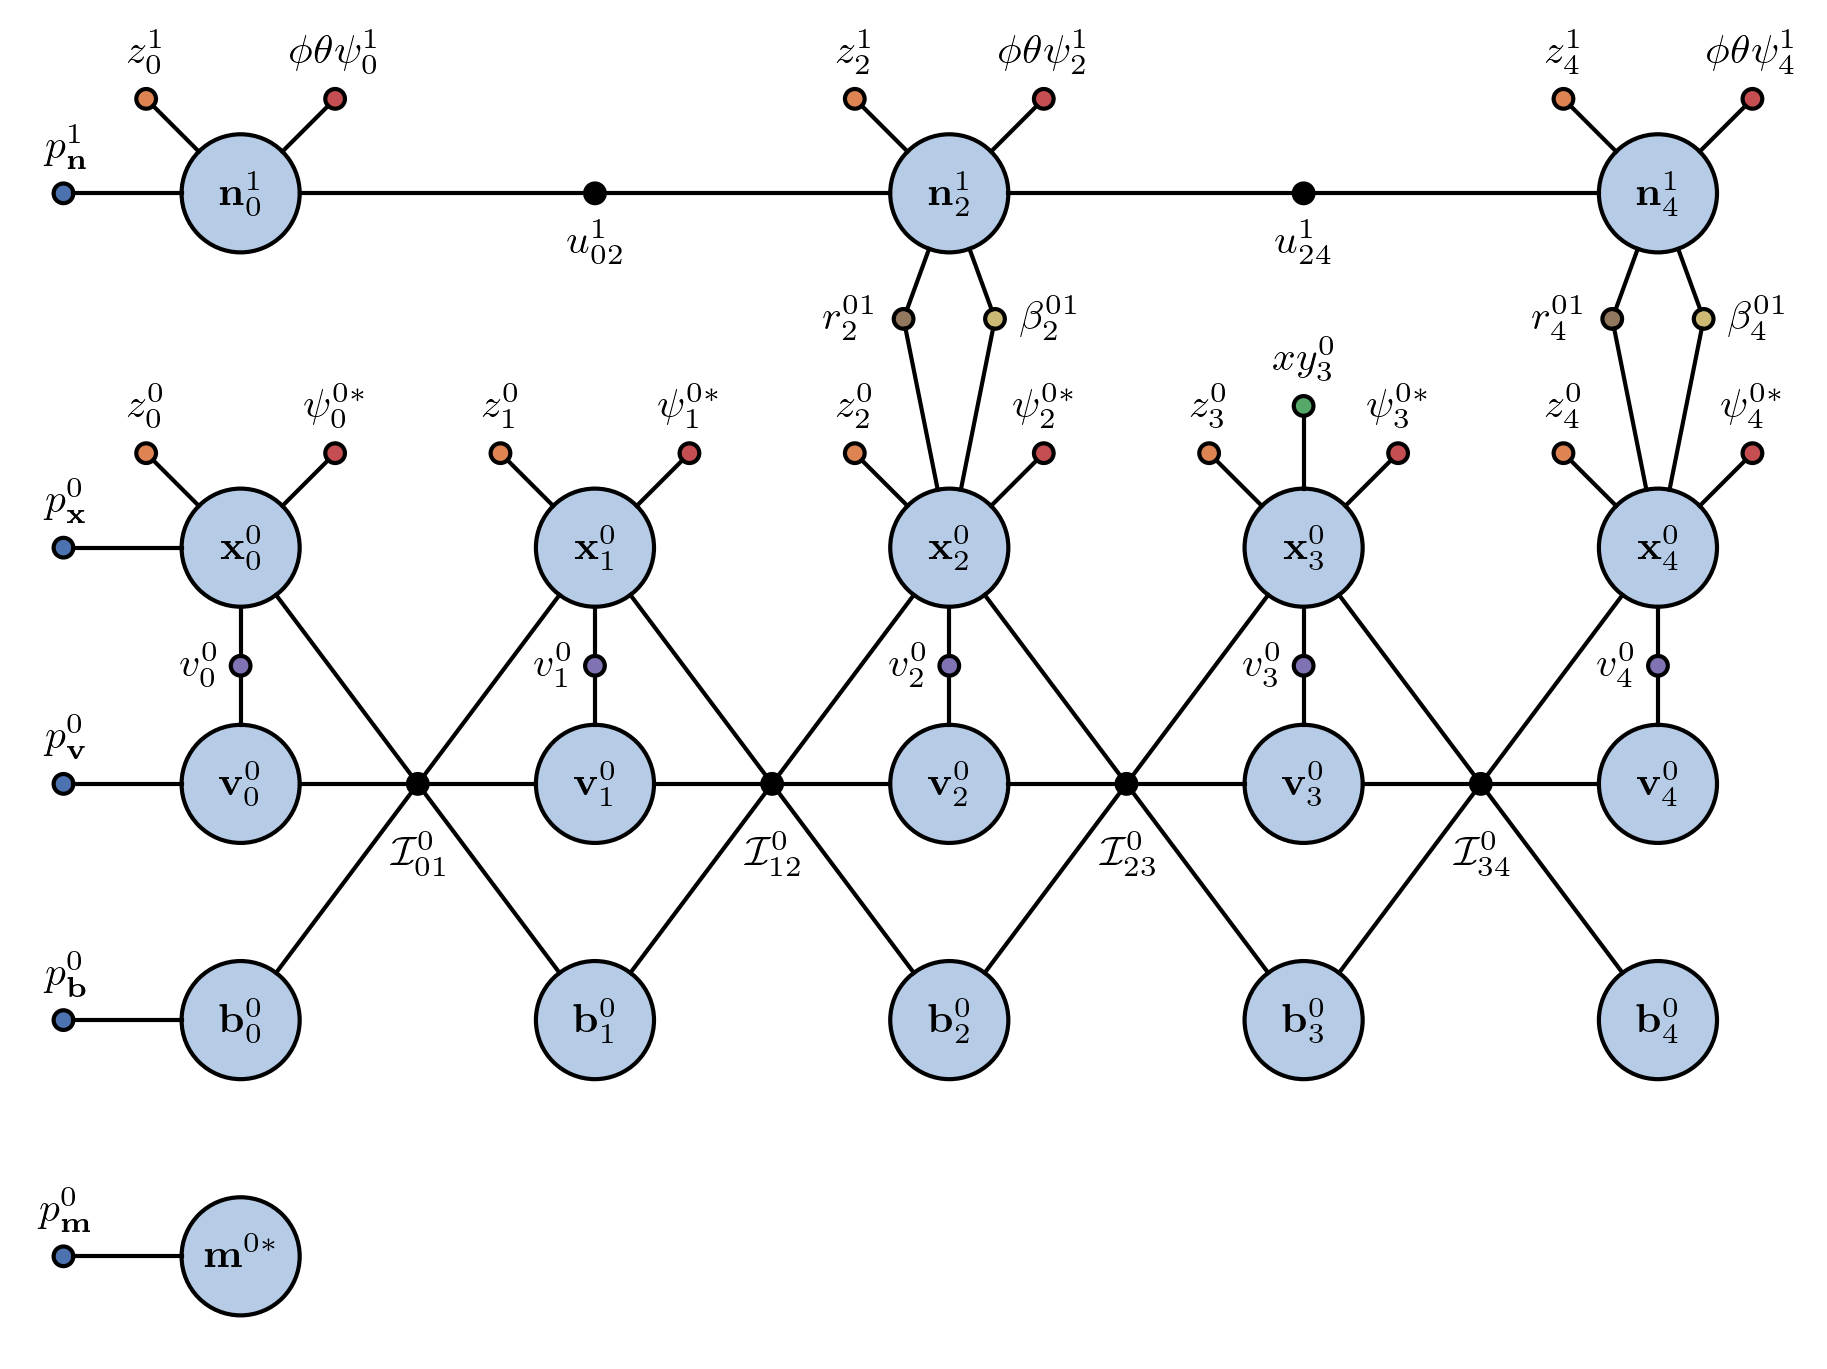
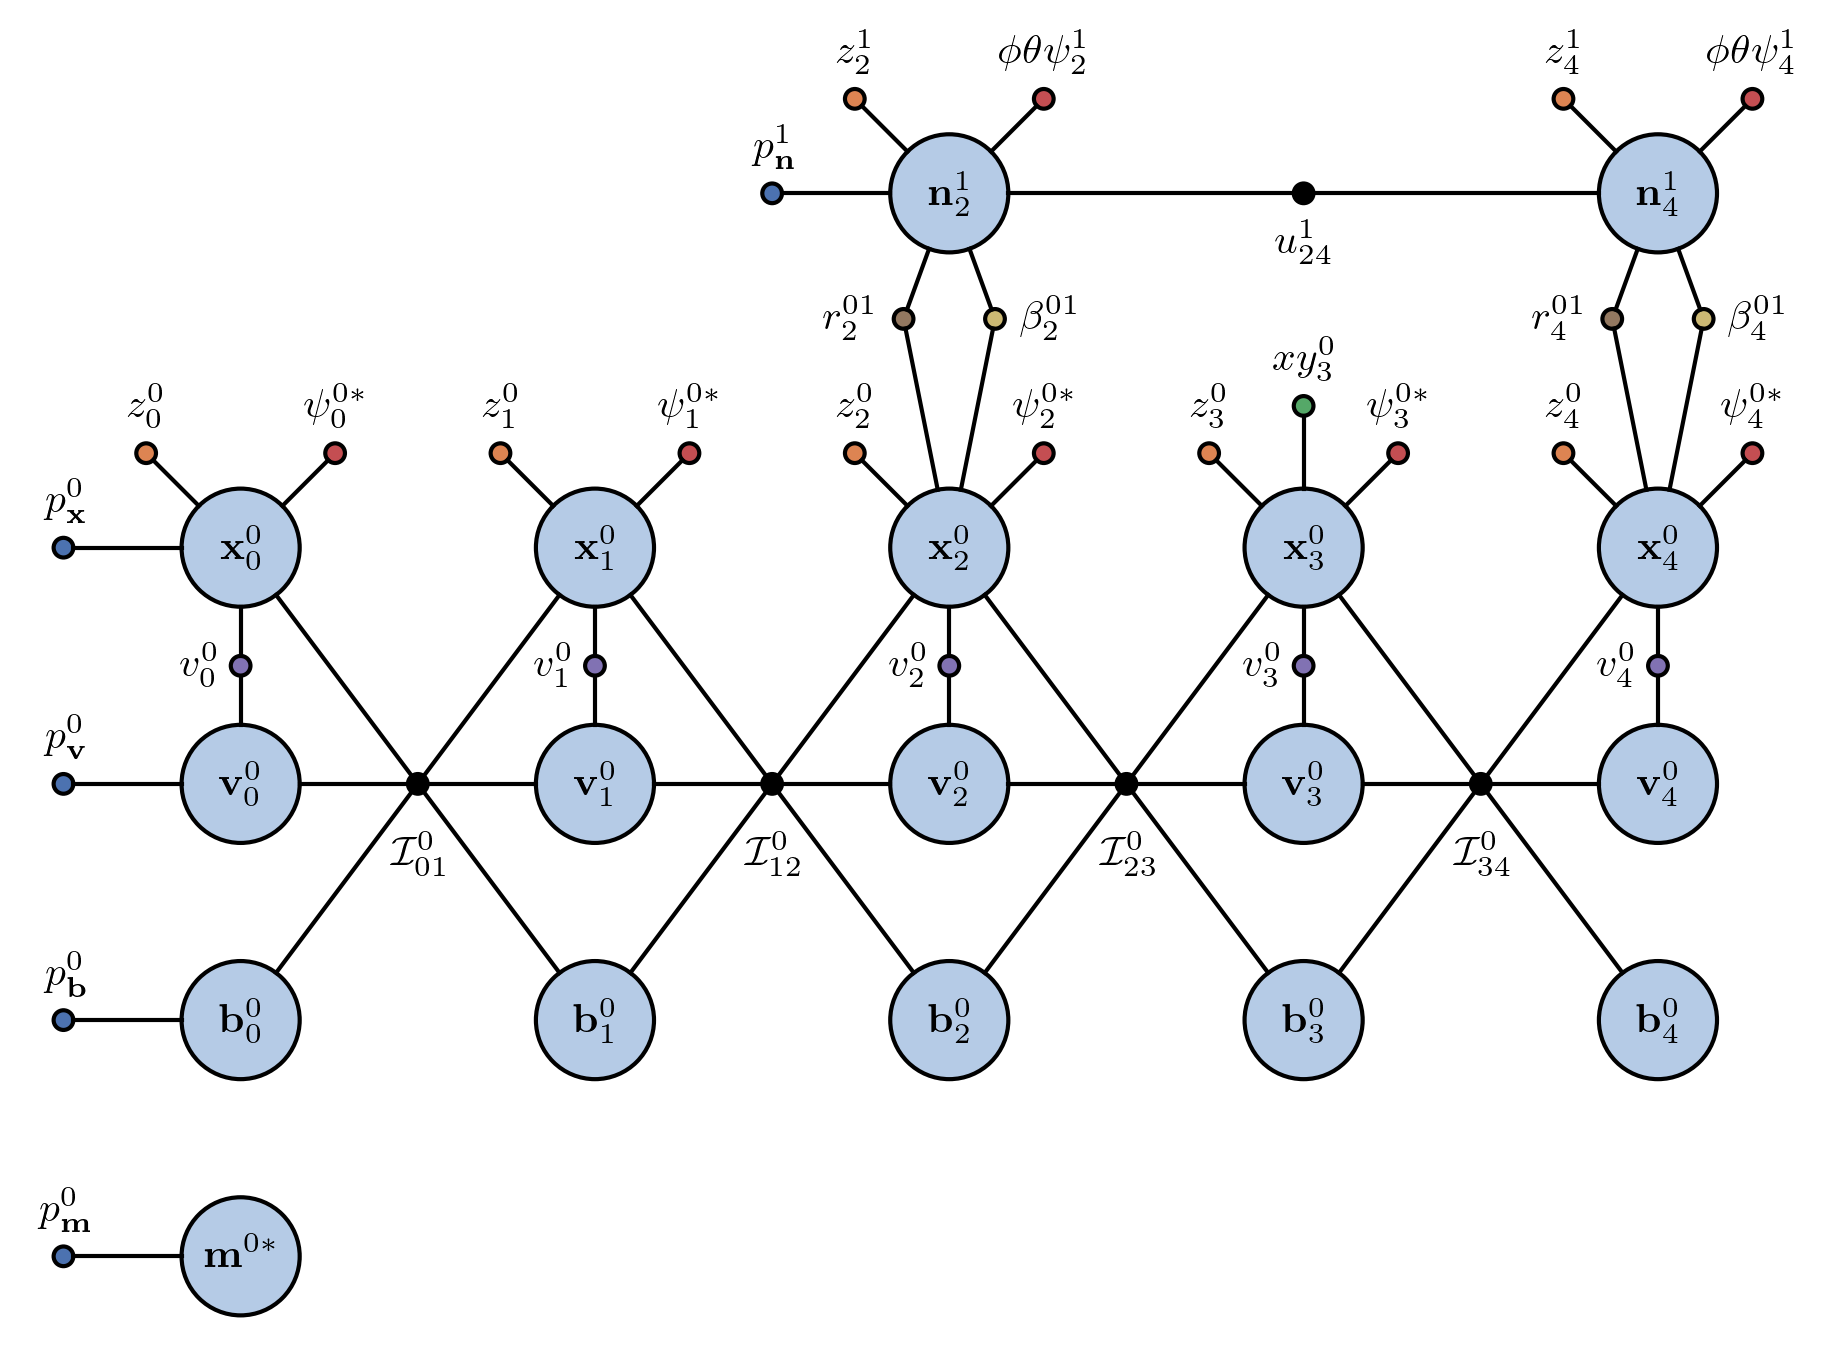
More accurate multiagent diagram

diff --git a/diagrams/generate.py b/diagrams/generate.py
@@ -478,22 +478,22 @@ for i in range(5):
 pgm_multiagent.add_node(
     "px1",
     "$p^1_\\mathbf{n}$",
-    start_x - prior_dist,
+    (start_x + (2 * col_spacing)) - prior_dist,
     4.5,
     fixed=True,
     offset=[0, 3],
     plot_params=style_prior,
 )
 
-for i in [0, 2, 4]:
+for i in [2, 4]:
     col_x = start_x + (i * col_spacing)
     pgm_multiagent.add_node(
         f"x1_{i}", f"$\\mathbf{{n}}^1_{{{i}}}$", col_x, 4.5, plot_params=style_var
     )
 
-pgm_multiagent.add_edge("px1", "x1_0")
+pgm_multiagent.add_edge("px1", "x1_2")
 
-for i in [0, 2, 4]:
+for i in [2, 4]:
     col_x = start_x + (i * col_spacing)
 
     pgm_multiagent.add_node(
@@ -518,7 +518,7 @@ for i in [0, 2, 4]:
     )
     pgm_multiagent.add_edge(f"x1_{i}", f"heading1_{i}")
 
-for a, b in [(0, 2), (2, 4)]:
+for a, b in [(2, 4)]:
     mid_x = start_x + ((a + b) / 2) * col_spacing
     pgm_multiagent.add_node(
         f"odom1_{a}{b}",
